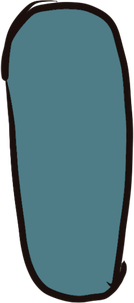
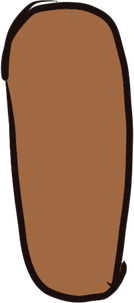
Cast: dark grey tank top as the default outfit, arms in each character's skin
Claude-Session: https://claude.ai/code/session_01EF1kxEHTJYX24hdE1XjJay

diff --git a/Assets/_Project/Scripts/UI/Puppet.cs b/Assets/_Project/Scripts/UI/Puppet.cs
@@ -189,15 +189,11 @@ namespace TDTS.UI
             }
 
             body = ArtPart(root, "Body", v.torso, torso, new Vector2(0.5f, 0f));
-            // Zip seam and seat number, like the team's coloured jumpsuit draft
-            var seam = NewRect("Seam", body, new Vector2(0.52f, 0.04f), new Vector2(0.52f, 0.9f), new Vector2(-2f, 0f), new Vector2(2f, 0f));
-            Image seamImage = seam.gameObject.AddComponent<Image>();
-            seamImage.color = UITheme.TealDark;
-            seamImage.raycastTarget = false;
+            // Default outfit is a dark grey tank top; the seat number is printed on it like a stencil
             var number = NewText("Seat", body, height * 0.07f, FontStyles.Bold, TextAlignmentOptions.Center,
                 new Vector2(0.14f, 0.5f), new Vector2(0.48f, 0.72f), Vector2.zero, Vector2.zero);
             number.text = seat.ToString("00");
-            number.color = UITheme.Brick;
+            number.color = UITheme.WithAlpha(UITheme.Cream, 0.55f);
 
             watchArm = ArtPart(root, "Arm", v.arm, arm, new Vector2(0.5f, 0.95f)); // swings from the shoulder
             head = ArtPart(root, "Head", v.head, headSprite, new Vector2(0.5f, 0.06f)); // nods from the neck

diff --git a/Docs/assets/characters/puppets/README.md b/Docs/assets/characters/puppets/README.md
@@ -1,4 +1,4 @@
-# puppets (v2, Nov 26): the cast C1 to C6
+# puppets (v2.1, Nov 26): the cast C1 to C6
 
 Built by Claude from the design team's PSD (`Art sketch game.psd`): the six inked heads on the
 character sheet, the Big Body and Thin Body torsos and the front arms. **Bigger head = big body.**
@@ -19,7 +19,8 @@ The positions of the parts live in `Puppet.cs` (`Variants`), generated by Claude
 - Eyes: the sketches left the eye openings see-through; they now have eye whites, an iris, a pupil and a catch light.
 - Long hair (C1, C4) is on its own `hairback` layer behind the shoulders, so it can sway. C1's flat
   cut at the bottom is replaced by tapered ends that fall behind the back.
-- The neck above the jumpsuit collar matches each character's skin.
+- Default outfit (v2.1): a dark grey tank top; neck, shoulders and both arms show the character's own skin.
+  The seat number is a faint cream stencil on the chest (the teal jumpsuit and zip are gone).
 - Seats on the left of the table are mirrored so they look in toward the middle (`Puppet.FaceRight`);
   the seat number on the chest stays readable.
 
